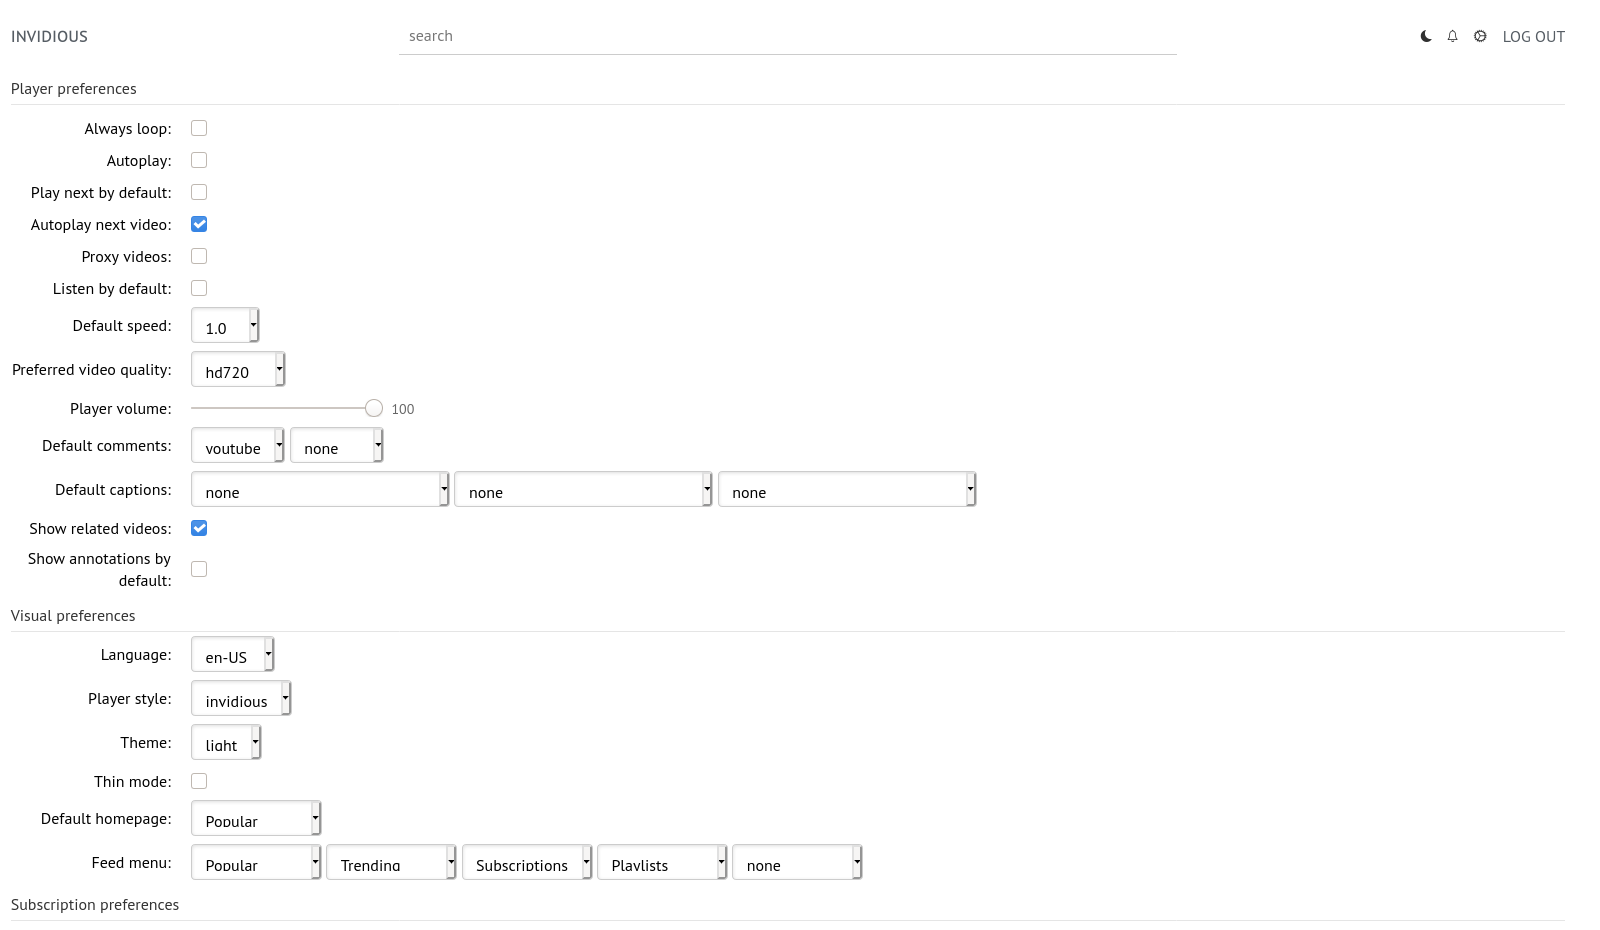
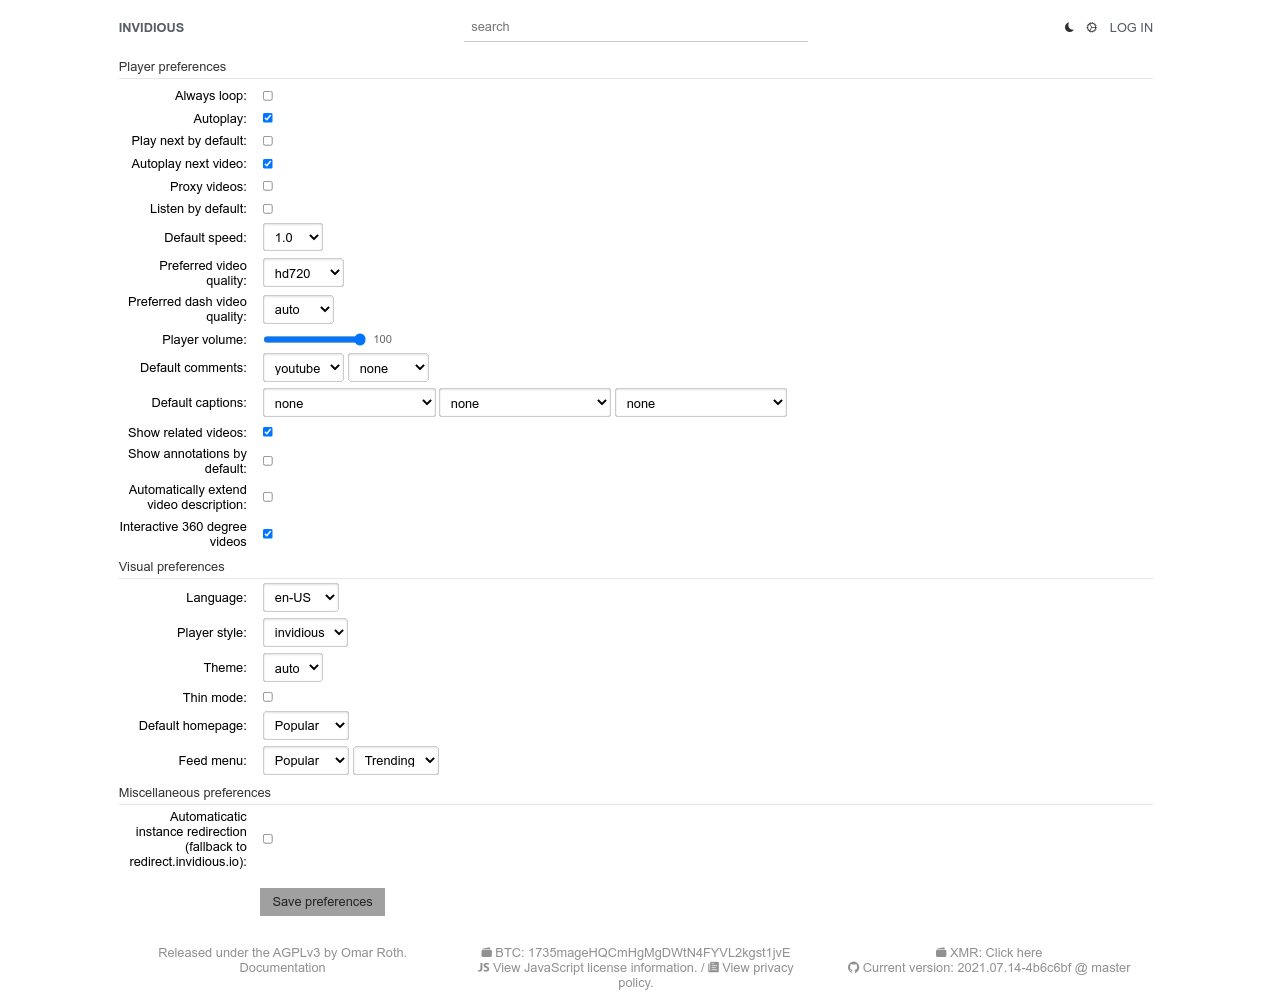
Rework the README (#2135)
Major README.md cleaning

Additions:
* Add the invidious logo
* Add Quickstart section
* Add relevant links (instance list, documentation, contribute, donate) directly in the header

Badges:
* Add badges for open issues and PRs
* Add "Awesome Humane Tech" badge, as we're listed there
* Move CI passed/translated badges to the top
* Replace the "license feature" with a proper badge

Major section changes:
* Reword titles
* Rewrite features list
* Promote the screenshots sections. People like screenshots!
* Move "donate" to the end, there is a link at the top anyway
* Move section "made with invidious" after all the other invidious related sections + rename it to "Projects using Invidious"

Other fixes:
* Remove useless HTML in the screenshots table
* Remove extra columns in H2 titles
* Remove all useless lines between sections
* Use markdown for git commands + add the staging step
* Promote invidious redirect in "Extensions"
* Update preference screenshots

diff --git a/README.md b/README.md
@@ -1,73 +1,133 @@
-<h1 align="center">Invidious</h1>
+<div align="center">
+  <img src="assets/android-chrome-192x192.png">
+  <h1>Invidious</h1>
 
-<h2 align="center">Invidious is an alternative front-end to YouTube.</h2>
+  <a href="https://www.gnu.org/licenses/agpl-3.0.en.html">
+    <img alt="License: AGPLv3+" src="https://shields.io/badge/License-AGPL%20v3+-blue.svg">
+  </a>
+  <a href="https://github.com/iv-org/invidious/actions">
+    <img alt="Build Status" src="https://github.com/iv-org/invidious/workflows/Invidious%20CI/badge.svg">
+  </a>
+  <a href="https://github.com/iv-org/invidious/issues">
+    <img alt="GitHub issues" src="https://img.shields.io/github/issues/iv-org/invidious?color=important">
+  </a>
+  <a href="https://github.com/iv-org/invidious/pulls">
+    <img alt="GitHub pull requests" src="https://img.shields.io/github/issues-pr/iv-org/invidious?color=blueviolet">
+  </a>
+  <a href="https://hosted.weblate.org/engage/invidious/">
+    <img alt="Translation Status" src="https://hosted.weblate.org/widgets/invidious/-/translations/svg-badge.svg">
+  </a>
+  <a href="https://github.com/humanetech-community/awesome-humane-tech">
+    <img alt="Awesome Humane Tech" src="https://raw.githubusercontent.com/humanetech-community/awesome-humane-tech/main/humane-tech-badge.svg?sanitize=true">
+  </a>
 
----
+  <h3>An open source alternative front-end to YouTube</h3>
 
-## Invidious instances:
+  <a href="https://instances.invidious.io/">Instances list</a>
+  &nbsp;•&nbsp; 
+  <a href="#documentation">Documentation</a>
+  &nbsp;•&nbsp;
+  <a href="#contribute">Contribute</a>
+  &nbsp;•&nbsp;
+  <a href="#donate">Donate</a>
+  
+  <h5>Chat with us:</h5>
+  <a href="https://matrix.to/#/#invidious:matrix.org">
+    <img alt="Matrix" src="https://img.shields.io/matrix/invidious:matrix.org?label=Matrix&color=darkgreen">
+  </a>
+  <a href="https://web.libera.chat/?channel=#invidious">
+    <img alt="Libera.chat (IRC)" src="https://img.shields.io/badge/IRC%20%28Libera.chat%29-%23invidious-darkgreen">
+  </a>
+</div>
 
-Public Invidious instances are listed on the documentation website: https://instances.invidious.io/
 
----
+## Screenshots
 
-## Invidious features:
+| Player                              | Preferences                         | Subscriptions                         |
+|-------------------------------------|-------------------------------------|---------------------------------------|
+| ![](screenshots/01_player.png)      | ![](screenshots/02_preferences.png) | ![](screenshots/03_subscriptions.png) |
+| ![](screenshots/04_description.png) | ![](screenshots/05_preferences.png) | ![](screenshots/06_subscriptions.png) |
 
-- [Copylefted libre software](https://github.com/iv-org/invidious) (AGPLv3+ licensed)
-- Lightweight (the homepage is ~4 KB compressed)
+
+## Features
+
+**User features**
+- Lightweight
 - No ads
 - No tracking
-- Javascript is 100% optional
-- Tools for managing subscriptions:
-  - Only show unseen videos
-  - Only show latest (or latest unseen) video from each channel
-  - Delivers notifications from all subscribed channels
-  - Automatically redirect homepage to feed
-  - Import subscriptions from YouTube
-- Audio-only mode (and no need to keep window open on mobile)
-- Dark mode
-- Embed support
-- Set default player options (speed, quality, autoplay, loop)
-- Support for Reddit comments in place of YouTube comments
-- Import/Export subscriptions, watch history, preferences
+- No JavaScript required
+- Light/Dark themes
+- Customizable homepage
+- Subscriptions independant from Google
+- Notifications for all subscribed channels
+- Audio-only mode (with background play on mobile)
+- Support for Reddit comments
+- [Available in many languages](locales/), thanks to [our translators](#contribute)
+
+**Data import/export**
+- Import subscriptions from YouTube, NewPipe and Freetube
+- Import watch history from NewPipe
+- Export subscriptions to NewPipe and Freetube
+- Import/Export Invidious user data
+
+**Technical features**
+- Embedded video support
 - [Developer API](https://docs.invidious.io/API.md)
-- Does not use any of the official YouTube APIs
-- No need to create a Google account to save subscriptions
-- No Code of Conduct
-- No Contributor license Agreement
-- Available in many languages, thanks to [Weblate](https://hosted.weblate.org/projects/invidious/)
+- Does not use official YouTube APIs
+- No Contributor License Agreement (CLA)
 
----
 
-## Screenshots:
+## Quick start
 
-| Player                                                                                                                  | Preferences                                                                                                             | Subscriptions                                                                                                               |
-| ----------------------------------------------------------------------------------------------------------------------- | ----------------------------------------------------------------------------------------------------------------------- | --------------------------------------------------------------------------------------------------------------------------- |
-| [<img src="screenshots/01_player.png?raw=true" height="140" width="280">](screenshots/01_player.png?raw=true)           | [<img src="screenshots/02_preferences.png?raw=true" height="140" width="280">](screenshots/02_preferences.png?raw=true) | [<img src="screenshots/03_subscriptions.png?raw=true" height="140" width="280">](screenshots/03_subscriptions.png?raw=true) |
-| [<img src="screenshots/04_description.png?raw=true" height="140" width="280">](screenshots/04_description.png?raw=true) | [<img src="screenshots/05_preferences.png?raw=true" height="140" width="280">](screenshots/05_preferences.png?raw=true) | [<img src="screenshots/06_subscriptions.png?raw=true" height="140" width="280">](screenshots/06_subscriptions.png?raw=true) |
+**Using invidious:**
 
----
+- [Select a public instance from the list](https://instances.invidious.io) and start watching videos right now!
 
-## Donate:
+**Hosting invidious:**
 
-Bitcoin (BTC): [bc1qfhe7rq3lqzuayzjxzyt9waz9ytrs09kla3tsgr](bitcoin:bc1qfhe7rq3lqzuayzjxzyt9waz9ytrs09kla3tsgr)
+- [Follow the installation instructions](https://docs.invidious.io/Installation.md)
 
-Monero (XMR): [41nMCtek197boJtiUvGnTFYMatrLEpnpkQDmUECqx5Es2uX3sTKKWVhSL76suXsG3LXqkEJBrCZBgPTwJrDp1FrZJfycGPR](monero:41nMCtek197boJtiUvGnTFYMatrLEpnpkQDmUECqx5Es2uX3sTKKWVhSL76suXsG3LXqkEJBrCZBgPTwJrDp1FrZJfycGPR)
 
----
+## Documentation
 
-## Documentation:
+The full documentation can be accessed online at https://docs.invidious.io/
 
-The complete documentation is available on https://docs.invidious.io/ (or alternatively on its own [Github repository](https://github.com/iv-org/documentation)).
+The documentation's source code is available in this repository:
+https://github.com/iv-org/documentation
 
----
+### Extensions
 
-## Extensions:
+We highly recommend the use of [Privacy Redirect](https://github.com/SimonBrazell/privacy-redirect#get),
+a browser extension that automatically redirects Youtube URLs to any Invidious instance and replaces
+embedded youtube videos on other websites with invidious.
 
-[Extensions](https://docs.invidious.io/Extensions.md) can be found in the wiki, as well as documentation for integrating it into other projects.
+The documentation contains a list of browser extensions that we recommended to use along with Invidious.
 
----
+You can read more here: https://docs.invidious.io/Extensions.md
 
-## Made with Invidious:
+
+## Contribute
+
+### Code
+
+1.  Fork it ( https://github.com/iv-org/invidious/fork ).
+1.  Create your feature branch (`git checkout -b my-new-feature`).
+1.  Stage your files (`git add .`).
+1.  Commit your changes (`git commit -am 'Add some feature'`).
+1.  Push to the branch (`git push origin my-new-feature`).
+1.  Create a new pull request ( https://github.com/iv-org/invidious/compare ).
+
+### Translations
+
+We use [Weblate](https://weblate.org) to manage Invidious translations.
+
+You can suggest new translations and/or correction here: https://hosted.weblate.org/engage/invidious/.
+
+Creating an account is not required, but recommended, especially if you want to contribute regularly.
+Weblate also allows you to log-in with major SSO providers like Github, Gitlab, BitBucket, Google, ...
+
+
+## Projects using Invidious
 
 - [FreeTube](https://github.com/FreeTubeApp/FreeTube): A libre software YouTube app for privacy.
 - [CloudTube](https://sr.ht/~cadence/tube/): A JavaScript-rich alternate YouTube player.
@@ -75,33 +135,21 @@ The complete documentation is available on https://docs.invidious.io/ (or altern
 - [MusicPiped](https://github.com/deep-gaurav/MusicPiped): A material design music player that streams music from YouTube.
 - [HoloPlay](https://github.com/stephane-r/HoloPlay): Funny Android application connecting on Invidious API's with search, playlists and favoris.
 
----
 
-## Contributing:
+## Donate
 
-[![Build Status](https://github.com/iv-org/invidious/workflows/Invidious%20CI/badge.svg)](https://github.com/iv-org/invidious/actions) [![Translation Status](https://hosted.weblate.org/widgets/invidious/-/translations/svg-badge.svg)](https://hosted.weblate.org/engage/invidious/)
+Bitcoin (BTC): [bc1qfhe7rq3lqzuayzjxzyt9waz9ytrs09kla3tsgr](bitcoin:bc1qfhe7rq3lqzuayzjxzyt9waz9ytrs09kla3tsgr)
 
-1.  Fork it ( https://github.com/iv-org/invidious/fork ).
-2.  Create your feature branch (git checkout -b my-new-feature).
-3.  Commit your changes (git commit -am 'Add some feature').
-4.  Push to the branch (git push origin my-new-feature).
-5.  Create a new pull request.
+Monero (XMR): [41nMCtek197boJtiUvGnTFYMatrLEpnpkQDmUECqx5Es2uX3sTKKWVhSL76suXsG3LXqkEJBrCZBgPTwJrDp1FrZJfycGPR](monero:41nMCtek197boJtiUvGnTFYMatrLEpnpkQDmUECqx5Es2uX3sTKKWVhSL76suXsG3LXqkEJBrCZBgPTwJrDp1FrZJfycGPR)
 
-### Translation:
 
-- Log in with an account you have elsewhere, or register an account and start translating at [Hosted Weblate](https://hosted.weblate.org/engage/invidious/).
+## Liability
 
----
-
-## Contact:
-
-Feel free to join our [Matrix room](https://matrix.to/#/#invidious:matrix.org).
-
----
-
-## Liability:
-
-We take no responsibility for the use of our tool, or external instances provided by third parties. We strongly recommend you abide by the valid official regulations in your country. Furthermore, we refuse liability for any inappropriate use of Invidious, such as illegal downloading. This tool is provided to you in the spirit of free, open software.
+We take no responsibility for the use of our tool, or external instances
+provided by third parties. We strongly recommend you abide by the valid
+official regulations in your country. Furthermore, we refuse liability
+for any inappropriate use of Invidious, such as illegal downloading.
+This tool is provided to you in the spirit of free, open software.
 
 You may view the LICENSE in which this software is provided to you [here](./LICENSE).
 
